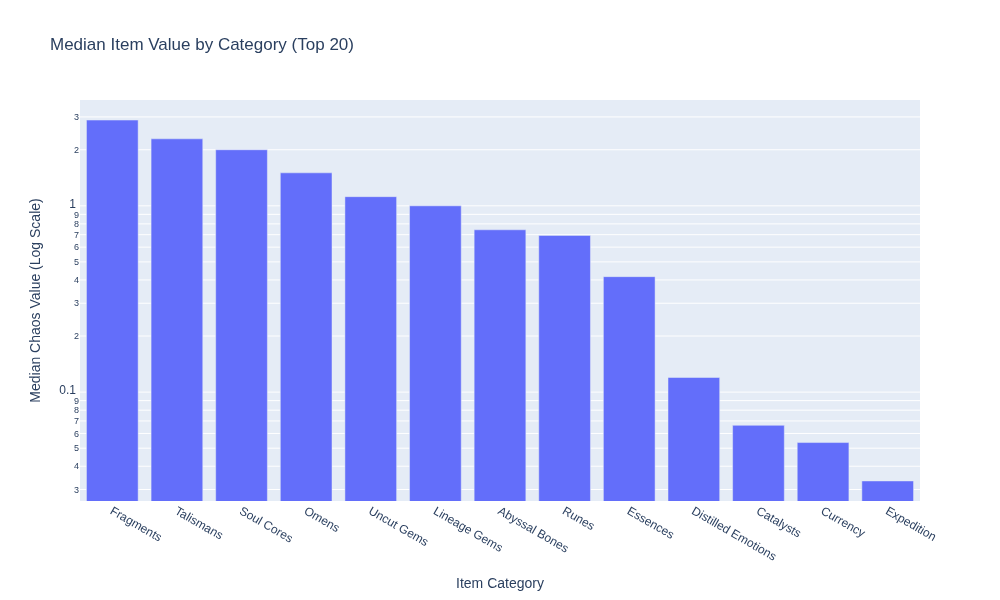
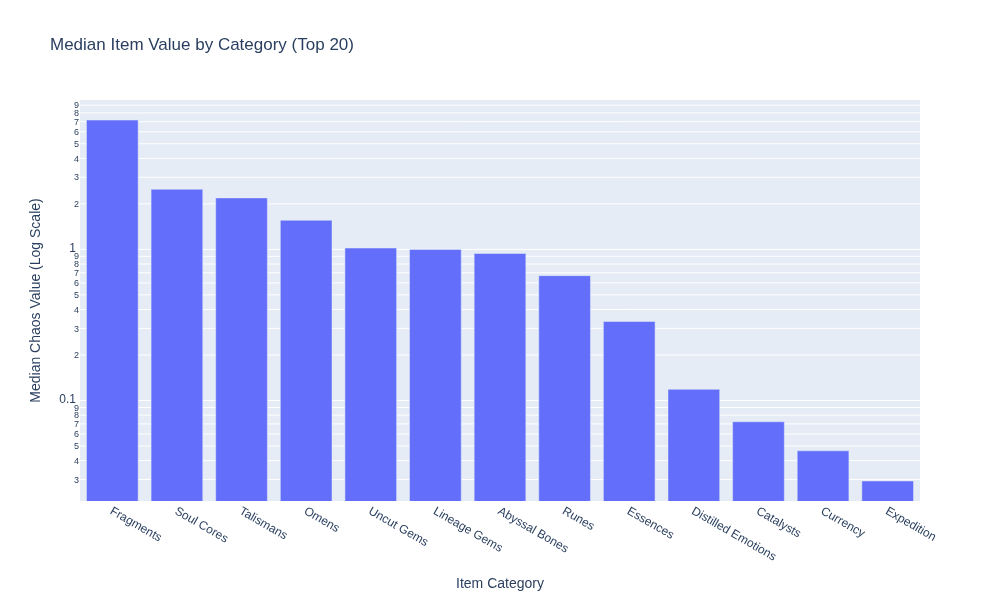
Update economy data and analysis

diff --git a/README.md b/README.md
@@ -7,8 +7,8 @@ This repository tracks Path of Exile 2 data.
 <!-- START_MAINTENANCE -->
 | Metric | Value |
 |:---|:---|
-| Last Successful Run (UTC) | `2025-10-02 05:46:54.316668` |
-| Total Price Entries in DB | `27,623` |
+| Last Successful Run (UTC) | `2025-10-02 06:30:05.240996` |
+| Total Price Entries in DB | `28,032` |
 
 <!-- END_MAINTENANCE -->
 
@@ -18,17 +18,17 @@ This repository tracks Path of Exile 2 data.
 ### Most Valuable Item by Category
 | Category | Top Item | Imputed Chaos Value |
 | :--- | :--- | :--- |
-| Lineage Gems | Dialla's Desire | 693.0 |
-| Essences | Perfect Essence of Flames | 534.9 |
-| Runes | Hedgewitch Assandra's Rune of Wisdom | 397.0 |
-| Soul Cores | Tzamoto's Soul Core of Ferocity | 242.2 |
-| Talismans | Talisman of Sirrius | 186.0 |
+| Abyssal Bones | Gnawed Jawbone | 594.6 |
+| Essences | Perfect Essence of the Infinite | 574.1 |
+| Lineage Gems | Rakiata's Flow | 439.5 |
+| Runes | Hedgewitch Assandra's Rune of Wisdom | 397.2 |
+| Soul Cores | Soul Core of Xopec | 307.5 |
+| Talismans | Talisman of Sirrius | 190.2 |
 | Fragments | Olroth's Reliquary Key | 130.0 |
-| Abyssal Bones | Ancient Collarbone | 124.8 |
-| Omens | Omen of Chance | 121.6 |
-| Uncut Gems | Uncut Spirit Gem (Level 20) | 74.5 |
-| Currency | Divine Orb | 20.2 |
-| Distilled Emotions | Concentrated Liquid Isolation | 15.1 |
+| Omens | Omen of Chance | 123.1 |
+| Uncut Gems | Uncut Spirit Gem (Level 20) | 75.1 |
+| Currency | Divine Orb | 20.5 |
+| Distilled Emotions | Concentrated Liquid Isolation | 14.8 |
 | Catalysts | Reaver Catalyst | 0.8 |
 | Expedition | Exotic Coinage | 0.0 |
 
@@ -42,16 +42,16 @@ This repository tracks Path of Exile 2 data.
 ### Top 10 Most Valuable Items (Overall)
 | Item | Imputed Chaos Value |
 | :--- | :--- |
-| Dialla's Desire | 693.0 |
-| Perfect Essence of Flames | 534.9 |
-| Rakiata's Flow | 426.3 |
-| Hedgewitch Assandra's Rune of Wisdom | 397.0 |
-| Farrul's Rune of the Chase | 338.2 |
-| Tzamoto's Soul Core of Ferocity | 242.2 |
-| Countess Seske's Rune of Archery | 206.7 |
-| Talisman of Sirrius | 186.0 |
-| Uul-Netol's Embrace | 158.0 |
-| Atalui's Bloodletting | 137.6 |
+| Gnawed Jawbone | 594.6 |
+| Perfect Essence of the Infinite | 574.1 |
+| Perfect Essence of Flames | 533.1 |
+| Rakiata's Flow | 439.5 |
+| Hedgewitch Assandra's Rune of Wisdom | 397.2 |
+| Farrul's Rune of the Chase | 340.7 |
+| Soul Core of Xopec | 307.5 |
+| Tzamoto's Soul Core of Ferocity | 246.0 |
+| Countess Seske's Rune of Archery | 212.8 |
+| Talisman of Sirrius | 190.2 |
 
 
 ![Market Movers Chart](charts/market_movers.png)
